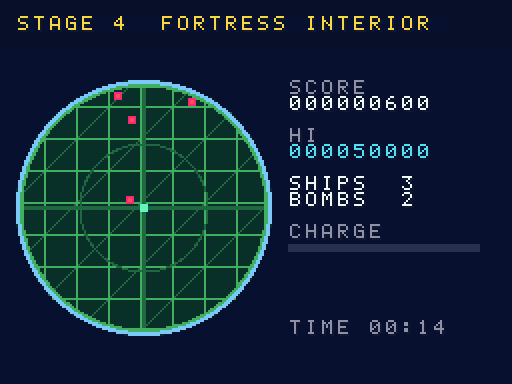
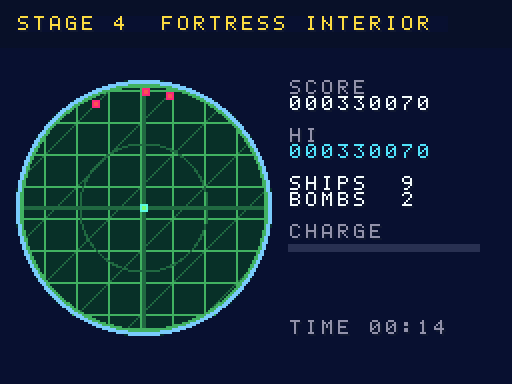
DOCS: Re-capture Elevane images and Corvane stage 4 with a recorded emulator
Elevane (6) from headless melonDS 1.1 (chapters 1/4/5 and the showcase from the rehearsal ROM that solves the
puzzles); Corvane stage 4 from the auto QA run in melonDS 1.1. Captions name the emulator.

diff --git a/games/elevane/README-KO.md b/games/elevane/README-KO.md
@@ -9,7 +9,7 @@
 
 <p align="center"><img src="docs/images/title.png" width="256" alt="타이틀"> <img src="docs/images/chapter1.png" width="256" alt="1장, 일치"> <img src="docs/images/chapter4.png" width="256" alt="4장, 작업 층과 아치"> <img src="docs/images/chapter5.png" width="256" alt="5장, 구조물 둘 중 하나"> <img src="docs/images/showcase.png" width="256" alt="감상 모드"></p>
 
-<sub>빌드한 ROM을 이 저장소의 헤드리스 에뮬레이터(`tools/emu/`, `tools/melonds/`)로 찍은 화면입니다. 그림마다 어느 에뮬레이터인지는 기록하지 않았고, 실기가 아닙니다. 위 화면(정면도)만 최근접 이웃 2배(512×384)로 실었습니다.</sub>
+<sub>빌드한 ROM을 헤드리스 melonDS 1.1(`tools/melonds/mds.sh`)로 찍은 화면입니다. DeSmuME나 실기가 아닙니다. 1·4·5장과 쇼케이스는 퍼즐을 스크립트로 푸는 리허설 ROM에서 찍었습니다. 위 화면(정면도)만 최근접 이웃 2배(512×384)로 실었습니다.</sub>
 
 닌텐도 DS용 오리지널 복셀 실루엣 퍼즐입니다. 주문서 하나는 정면도와 평면도 실루엣이고,
 두 실루엣을 만드는 블록 구조물을 쌓으면 납품됩니다. 블록이 적을수록 별을 더 받습니다.

diff --git a/games/elevane/README.md b/games/elevane/README.md
@@ -9,7 +9,7 @@
 
 <p align="center"><img src="docs/images/title.png" width="256" alt="Title"> <img src="docs/images/chapter1.png" width="256" alt="Chapter 1, matched"> <img src="docs/images/chapter4.png" width="256" alt="Chapter 4, an arch with the work layer"> <img src="docs/images/chapter5.png" width="256" alt="Chapter 5, one of two structures"> <img src="docs/images/showcase.png" width="256" alt="Showcase mode"></p>
 
-<sub>Captured from the built ROM with the headless emulators of this repository (`tools/emu/`, `tools/melonds/`); the emulator of each picture was not recorded, and not real hardware. Top screen only (the front view) at 2x nearest-neighbour (512×384).</sub>
+<sub>Captured from the built ROM in headless melonDS 1.1 (`tools/melonds/mds.sh`), not DeSmuME or real hardware; chapters 1, 4, 5 and the showcase come from the rehearsal ROM, which solves the puzzles by script. Top screen only (the front view) at 2x nearest-neighbour (512×384).</sub>
 
 An original voxel silhouette puzzle for the Nintendo DS. Each order is a front and a plan
 silhouette; build a block structure that makes both and it is delivered, fewer blocks earn

diff --git a/games/corvane/README-KO.md b/games/corvane/README-KO.md
@@ -90,7 +90,7 @@ macOS의 Qt는 방향키에 `KeypadModifier`(0x20000000)를 붙여 보내므로 
 <tr><td align="center">4 요새 내부</td><td align="center">5 코어</td><td align="center">스테이지 2 보스</td></tr>
 </table>
 
-<sub>빌드한 ROM을 헤드리스 DeSmuME 0.9.12(`tools/emu/`)에서 캡처했습니다(melonDS·실기 아님). 위 화면만 최근접 보간 2배(512×384)로 실었고, 스테이지 4는 화면이 스왑되므로 위 화면이 레이더 HUD입니다. GIF는 스테이지 2 보스전의 일부이며 역시 2배입니다.</sub>
+<sub>빌드한 ROM을 헤드리스 DeSmuME 0.9.12(`tools/emu/`)에서 캡처했습니다(실기 아님). 스테이지 4만 헤드리스 melonDS 1.1(`tools/melonds/mds.sh`)의 자동 QA 실행에서 찍었습니다. 위 화면만 최근접 보간 2배(512×384)로 실었고, 스테이지 4는 화면이 스왑되므로 위 화면이 레이더 HUD입니다. GIF는 스테이지 2 보스전의 일부이며 역시 2배입니다.</sub>
 
 ## 디렉터리
 

diff --git a/games/corvane/README.md b/games/corvane/README.md
@@ -93,7 +93,7 @@ record saved. On game over you may continue (from the start of that stage).
 <tr><td align="center">4 Fortress Interior</td><td align="center">5 The Core</td><td align="center">Stage 2 boss</td></tr>
 </table>
 
-<sub>Captured from the built ROM in headless DeSmuME 0.9.12 (`tools/emu/`), not melonDS or real hardware. Top screen only at 2x nearest-neighbour (512×384); in stage 4 the screens swap, so the top screen there is the radar HUD. The GIF is part of the stage 2 boss fight, also at 2x.</sub>
+<sub>Captured from the built ROM in headless DeSmuME 0.9.12 (`tools/emu/`), not real hardware; stage 4 comes from the auto QA run in headless melonDS 1.1 (`tools/melonds/mds.sh`). Top screen only at 2x nearest-neighbour (512×384); in stage 4 the screens swap, so the top screen there is the radar HUD. The GIF is part of the stage 2 boss fight, also at 2x.</sub>
 
 ## Directories
 
